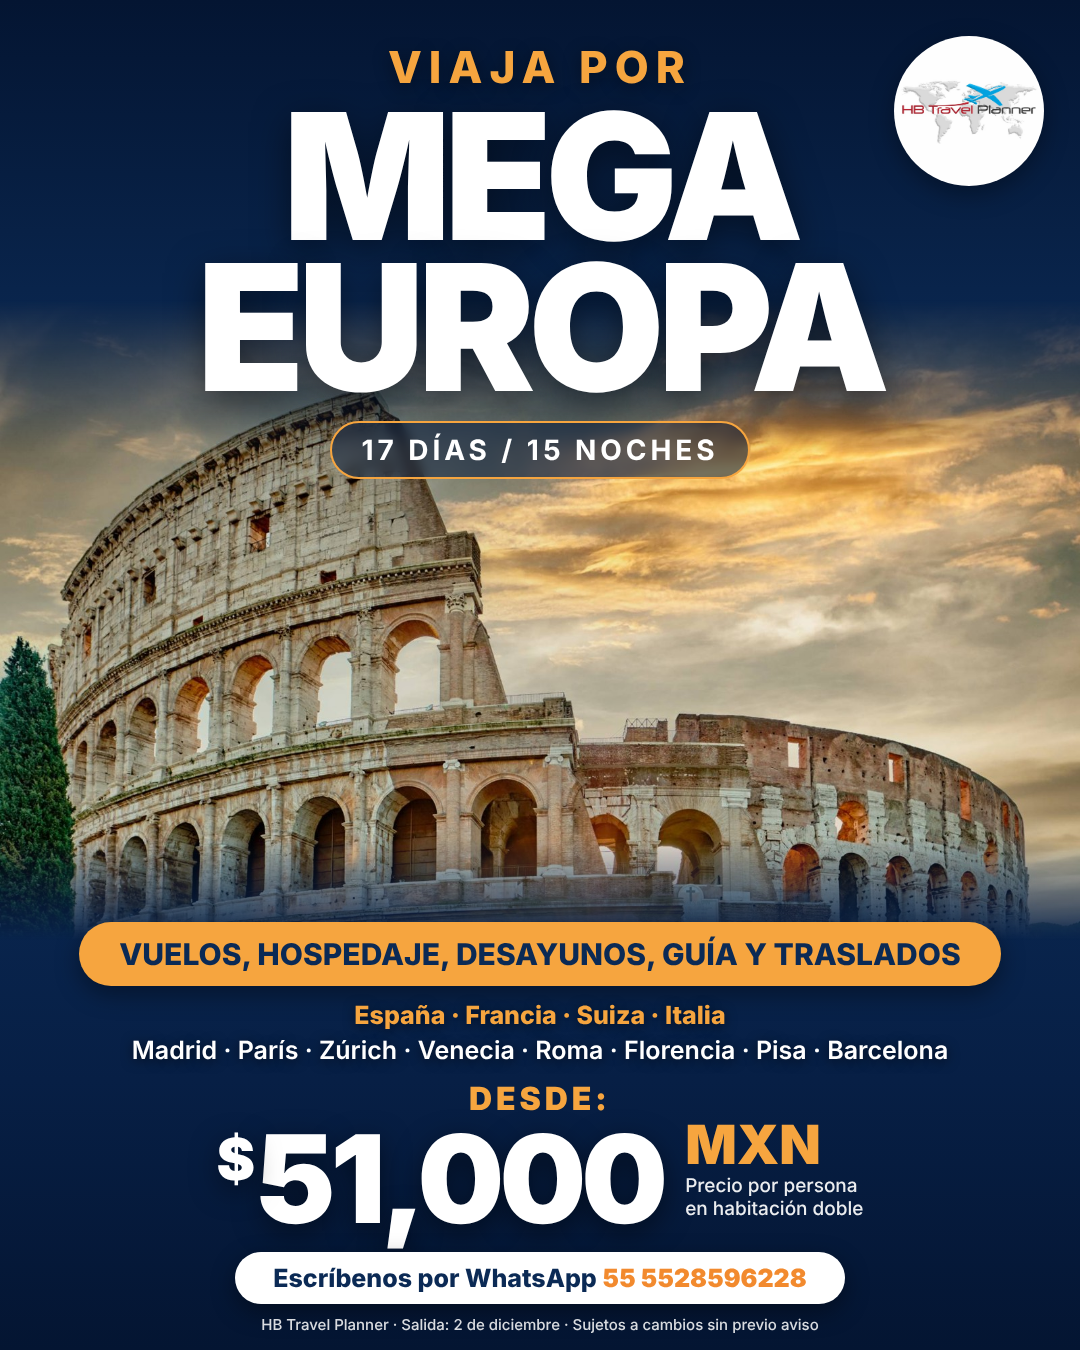
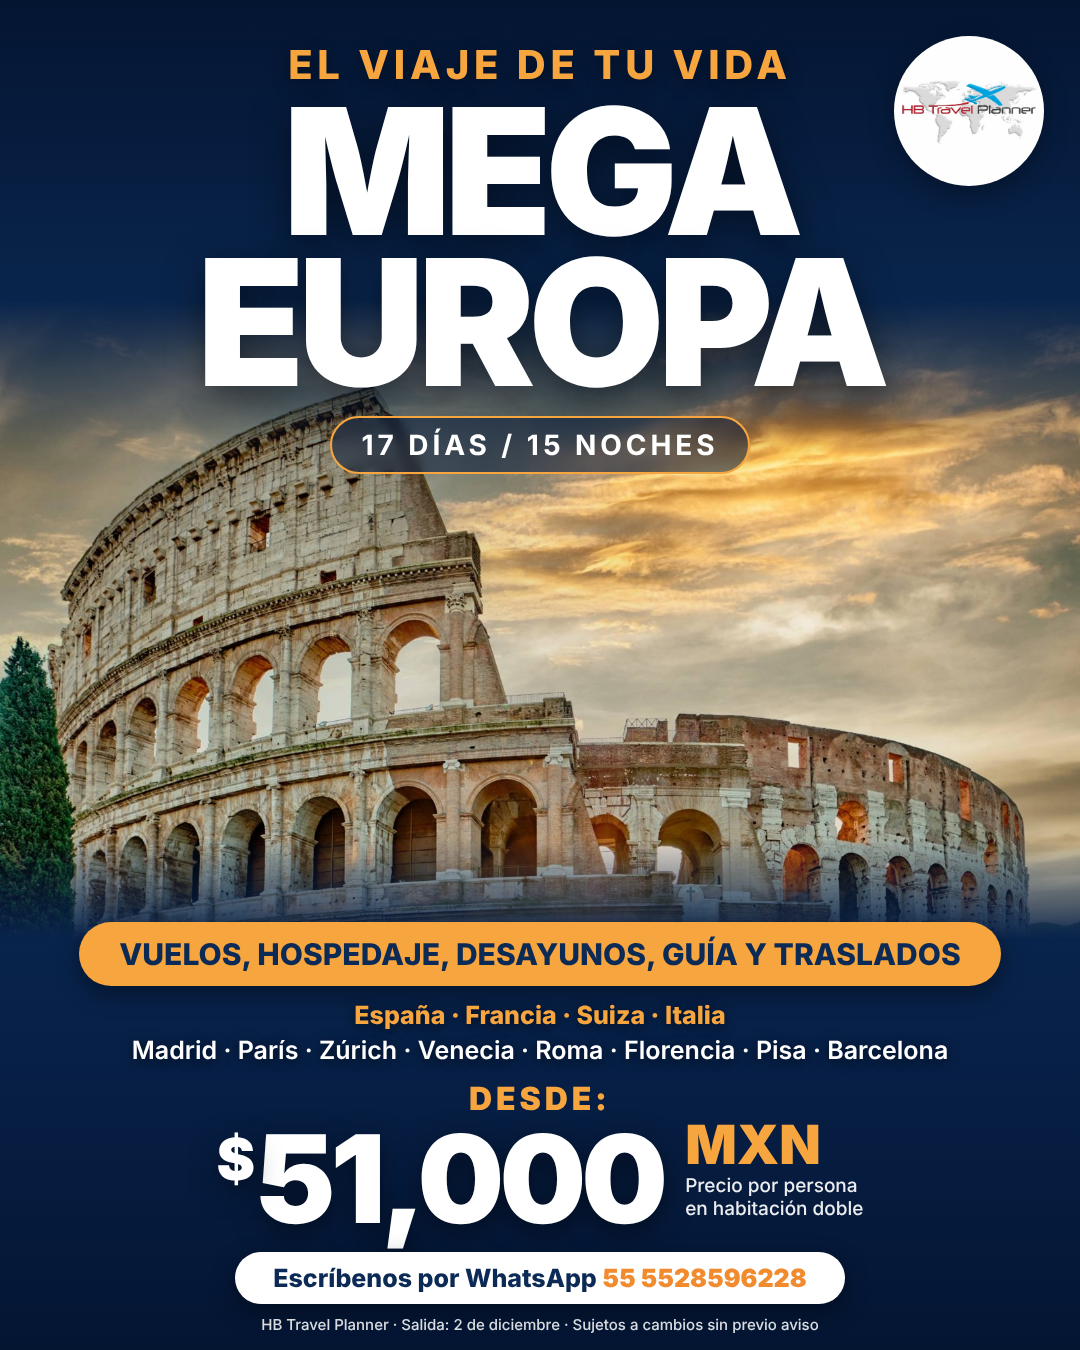
Mega Europa flyer: inspirational headline
Claude-Session: https://claude.ai/code/session_01KE8y3zqjDfDU485wDV3TSB

diff --git a/flyers/mega-europa.html b/flyers/mega-europa.html
@@ -14,7 +14,7 @@
     -webkit-mask-image:linear-gradient(180deg,transparent 0,#000 24%,#000 84%,transparent 100%);
             mask-image:linear-gradient(180deg,transparent 0,#000 24%,#000 84%,transparent 100%)}
   .top{position:absolute;top:40px;left:0;right:0;text-align:center}
-  .kicker{font-weight:800;font-size:44px;letter-spacing:.16em;text-transform:uppercase;color:var(--amber);text-shadow:0 4px 18px rgba(0,0,0,.45)}
+  .kicker{font-weight:800;font-size:40px;letter-spacing:.12em;text-transform:uppercase;color:var(--amber);text-shadow:0 4px 18px rgba(0,0,0,.45)}
   .title{font-weight:900;font-size:176px;line-height:.86;letter-spacing:-.04em;text-transform:uppercase;
     text-shadow:0 10px 36px rgba(0,0,0,.5);margin-top:6px}
   .title span{display:block}
@@ -46,7 +46,7 @@
   <div class="hero"></div>
   <div class="logo"></div>
   <div class="top">
-    <div class="kicker">Viaja por</div>
+    <div class="kicker">El viaje de tu vida</div>
     <h1 class="title"><span>Mega</span><span>Europa</span></h1>
     <div class="days">17 DÍAS / 15 NOCHES</div>
   </div>
